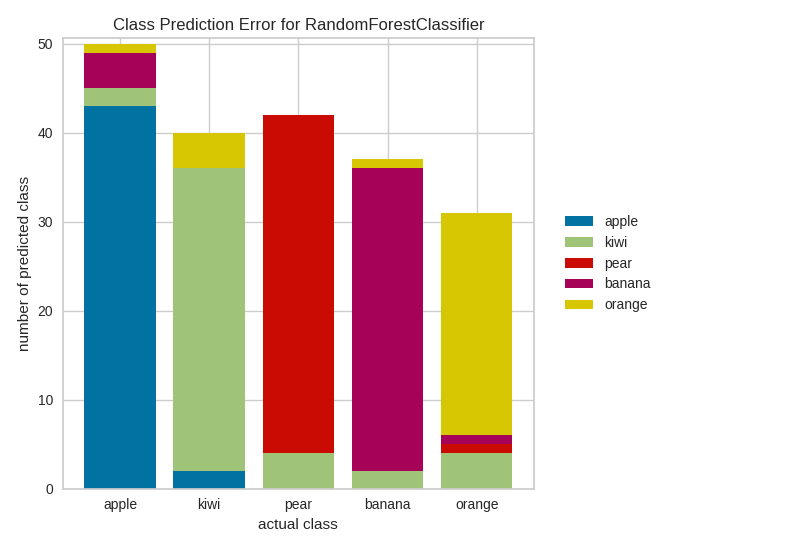
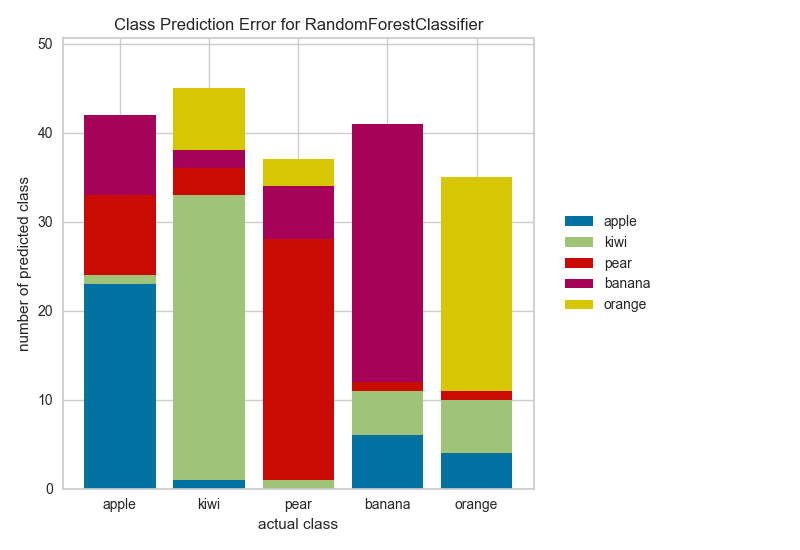
Indexers ClassPredictionError
Updates the class prediction error documentation with links in the
various index pages and in DESCRIPTION.rst and README.md

diff --git a/docs/api/classifier/class_prediction_error.py b/docs/api/classifier/class_prediction_error.py
@@ -1,29 +1,63 @@
-from yellowbrick.classifier import ClassPredictionError
+# class_prediction_error.py
+
+"""
+Creates the visualizations for the class_prediction_error.rst documentation
+"""
+
+##########################################################################
+## Imports
+##########################################################################
+
+import pandas as pd
+import matplotlib.pyplot as plt
 
 from sklearn.datasets import make_classification
-from sklearn.model_selection import train_test_split as tts
 from sklearn.ensemble import RandomForestClassifier
+from sklearn.model_selection import train_test_split as tts
 
-if __name__ == '__main__':
-    # Create classification dataset
-    X, y = make_classification(n_samples=1000, n_classes=5,
-                               n_informative=3, n_clusters_per_class=1)
+from yellowbrick.classifier import ClassPredictionError
+
+
+def make_fruit_dataset():
+    X, y = make_classification(
+        n_samples=1000, n_classes=5, n_informative=3, n_clusters_per_class=1
+    )
 
     classes = ['apple', 'kiwi', 'pear', 'banana', 'orange']
+    return tts(X, y, test_size=0.20, random_state=42), classes
 
-    # Perform 80/20 training/test split
-    X_train, X_test, y_train, y_test = tts(X, y, test_size=0.20,
-                                           random_state=42)
 
-    # Instantiate the classification model and visualizer
-    visualizer = ClassPredictionError(RandomForestClassifier(),
-                                      classes=classes)
+def load_credit_dataset():
+    data = pd.read_csv("../../../examples/data/credit/credit.csv")
+    target = "default"
+    features = list(data.columns)
+    features.remove(target)
 
-    # Fit the training data to the visualizer
-    visualizer.fit(X_train, y_train)
+    X = data[features]
+    y = data[target]
 
-    # Evaluate the model on the test data
-    visualizer.score(X_test, y_test)
+    classes = ["default", "current"]
+    return tts(X, y, test_size=0.2, random_state=53), classes
 
-    # Draw visualization
-    g = visualizer.poof(outpath="images/class_prediction_error.png")
+
+def make_cb_pred_error(dataset="fruit", path=None, clf=None):
+    clf = clf or RandomForestClassifier()
+
+    loader = {
+        'fruit': make_fruit_dataset,
+        'credit': load_credit_dataset,
+    }[dataset]
+
+    (X_train, X_test, y_train, y_test), classes = loader()
+
+    _, ax = plt.subplots()
+    viz =  ClassPredictionError(clf, ax=ax, classes=classes)
+    viz.fit(X_train, y_train)
+    viz.score(X_test, y_test)
+
+    return viz.poof(outpath=path)
+
+
+if __name__ == '__main__':
+    make_cb_pred_error("fruit", "images/class_prediction_error.png")
+    make_cb_pred_error("credit", "images/class_prediction_error_credit.png")

diff --git a/docs/api/classifier/class_prediction_error.rst b/docs/api/classifier/class_prediction_error.rst
@@ -6,21 +6,27 @@ The class prediction error chart provides a way to quickly understand how good y
 
 .. code:: python
 
-    # Create classification dataset
-    X, y = make_classification(n_samples=1000, n_classes=5,
-                               n_informative=3, n_clusters_per_class=1)
+    from sklearn.datasets import make_classification
 
+    # Create classification dataset
+    X, y = make_classification(
+        n_samples=1000, n_classes=5, n_informative=3, n_clusters_per_class=1
+    )
+
+    # Name the classes
     classes = ['apple', 'kiwi', 'pear', 'banana', 'orange']
 
     # Perform 80/20 training/test split
-    X_train, X_test, y_train, y_test = tts(X, y, test_size=0.20,
-                                           random_state=42)
+    X_train, X_test, y_train, y_test = tts(
+        X, y, test_size=0.20, random_state=42
+    )
 
 .. code:: python
 
     # Instantiate the classification model and visualizer
-    visualizer = ClassPredictionError(RandomForestClassifier(),
-                                      classes=classes)
+    visualizer = ClassPredictionError(
+        RandomForestClassifier(), classes=classes
+    )
 
     # Fit the training data to the visualizer
     visualizer.fit(X_train, y_train)
@@ -29,7 +35,7 @@ The class prediction error chart provides a way to quickly understand how good y
     visualizer.score(X_test, y_test)
 
     # Draw visualization
-    g = visualizer.poof(outpath="images/class_prediction_error.png")
+    g = visualizer.poof()
 
 .. image:: images/class_prediction_error.png
 

diff --git a/README.md b/README.md
@@ -26,7 +26,7 @@ Visualizers are estimators (objects that learn from data) whose primary objectiv
 
 #### Feature Visualization
 
-- **Feature Importances**: rank features based on their in-model performance 
+- **Feature Importances**: rank features based on their in-model performance
 - **Parallel Coordinates**: horizontal visualization of instances
 - **PCA Projection**: projection of instances based on principal components
 - **RadViz**: separation of instances around a circular plot
@@ -36,6 +36,7 @@ Visualizers are estimators (objects that learn from data) whose primary objectiv
 #### Classification Visualization
 
 - **Class Balance**: see how the distribution of classes affects the model
+- **Class Prediction Error**: shows error and support in classification
 - **Classification Report**: visual representation of precision, recall, and F1
 - **Confusion Matrices**: visual description of class decision making
 - **ROC/AUC Curves**: receiver operator characteristics and area under the curve
@@ -158,4 +159,4 @@ Glob syntax can be used to move multiple files. For example to reset all the cla
 $ python -m tests.images tests/test_classifier/*   
 ```
 
-Though it is recommended that specific test cases are targeted, rather than updating entire directories. 
+Though it is recommended that specific test cases are targeted, rather than updating entire directories.

diff --git a/docs/api/classifier/index.rst b/docs/api/classifier/index.rst
@@ -12,6 +12,7 @@ Classification models attempt to predict a target in a discrete space, that is a
 -  :doc:`rocauc`: Presents the graph of receiver operating characteristics
    along with area under the curve
 -  :doc:`class_balance`: Displays the difference between the class balances and support
+-  :doc:`class_prediction_error`: An alternative to the confusion matrix that shows both support and the difference between actual and predicted classes
 -  :doc:`threshold`: Shows the bounds of precision, recall and queue rate after a number of trials.
 
 Estimator score visualizers wrap Scikit-Learn estimators and expose the
@@ -38,4 +39,5 @@ a Pipeline or VisualPipeline.
    confusion_matrix
    rocauc
    class_balance
+   class_prediction_error
    threshold

diff --git a/docs/index.rst b/docs/index.rst
@@ -32,6 +32,7 @@ Classification Visualization
 ~~~~~~~~~~~~~~~~~~~~~~~~~~~~
 
 - :doc:`api/classifier/class_balance`: see how the distribution of classes affects the model
+- :doc:`api/classifier/class_prediction_error`: shows error and support in classification
 - :doc:`api/classifier/classification_report`: visual representation of precision, recall, and F1
 - :doc:`ROC/AUC Curves <api/classifier/rocauc>`: receiver operator characteristics and area under the curve
 - :doc:`Confusion Matrices <api/classifier/confusion_matrix>`: visual description of class decision making

diff --git a/DESCRIPTION.rst b/DESCRIPTION.rst
@@ -37,6 +37,7 @@ Classification Visualization
 ~~~~~~~~~~~~~~~~~~~~~~~~~~~~
 
 - **Class Balance**: see how the distribution of classes affects the model
+- **Class Prediction Error**: shows error and support in classification
 - **Classification Report**: visual representation of precision, recall, and F1
 - **ROC/AUC Curves**: receiver operator characteristics and area under the curve
 - **Confusion Matrices**: visual description of class decision making
